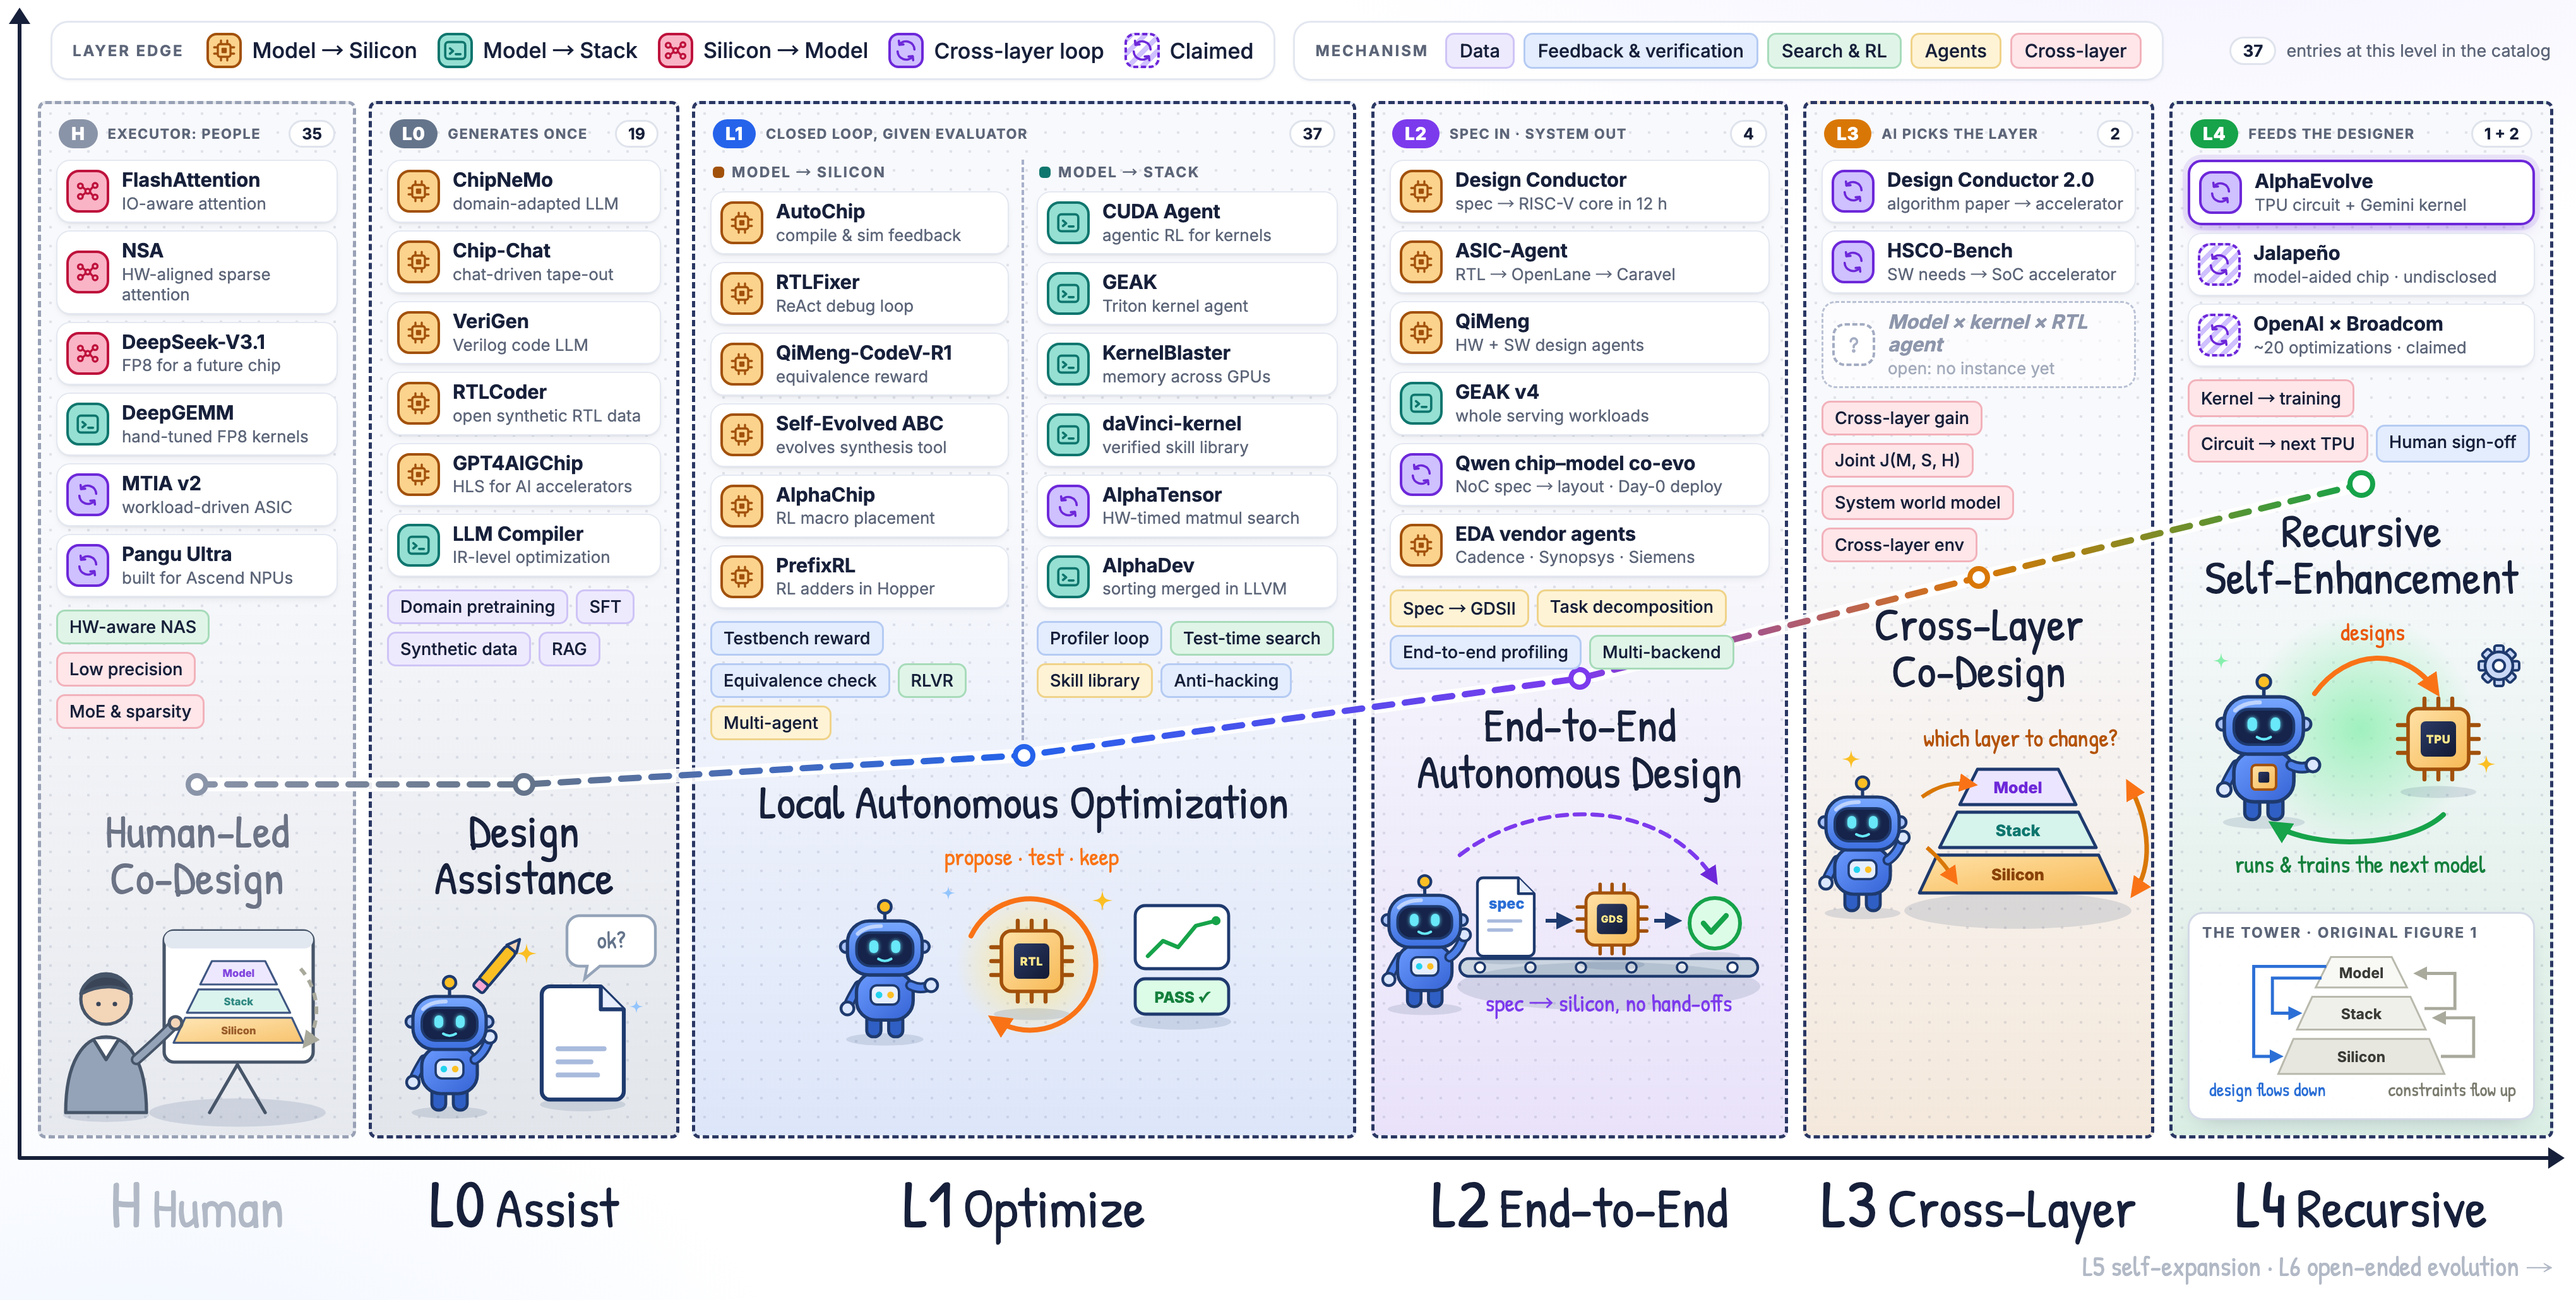
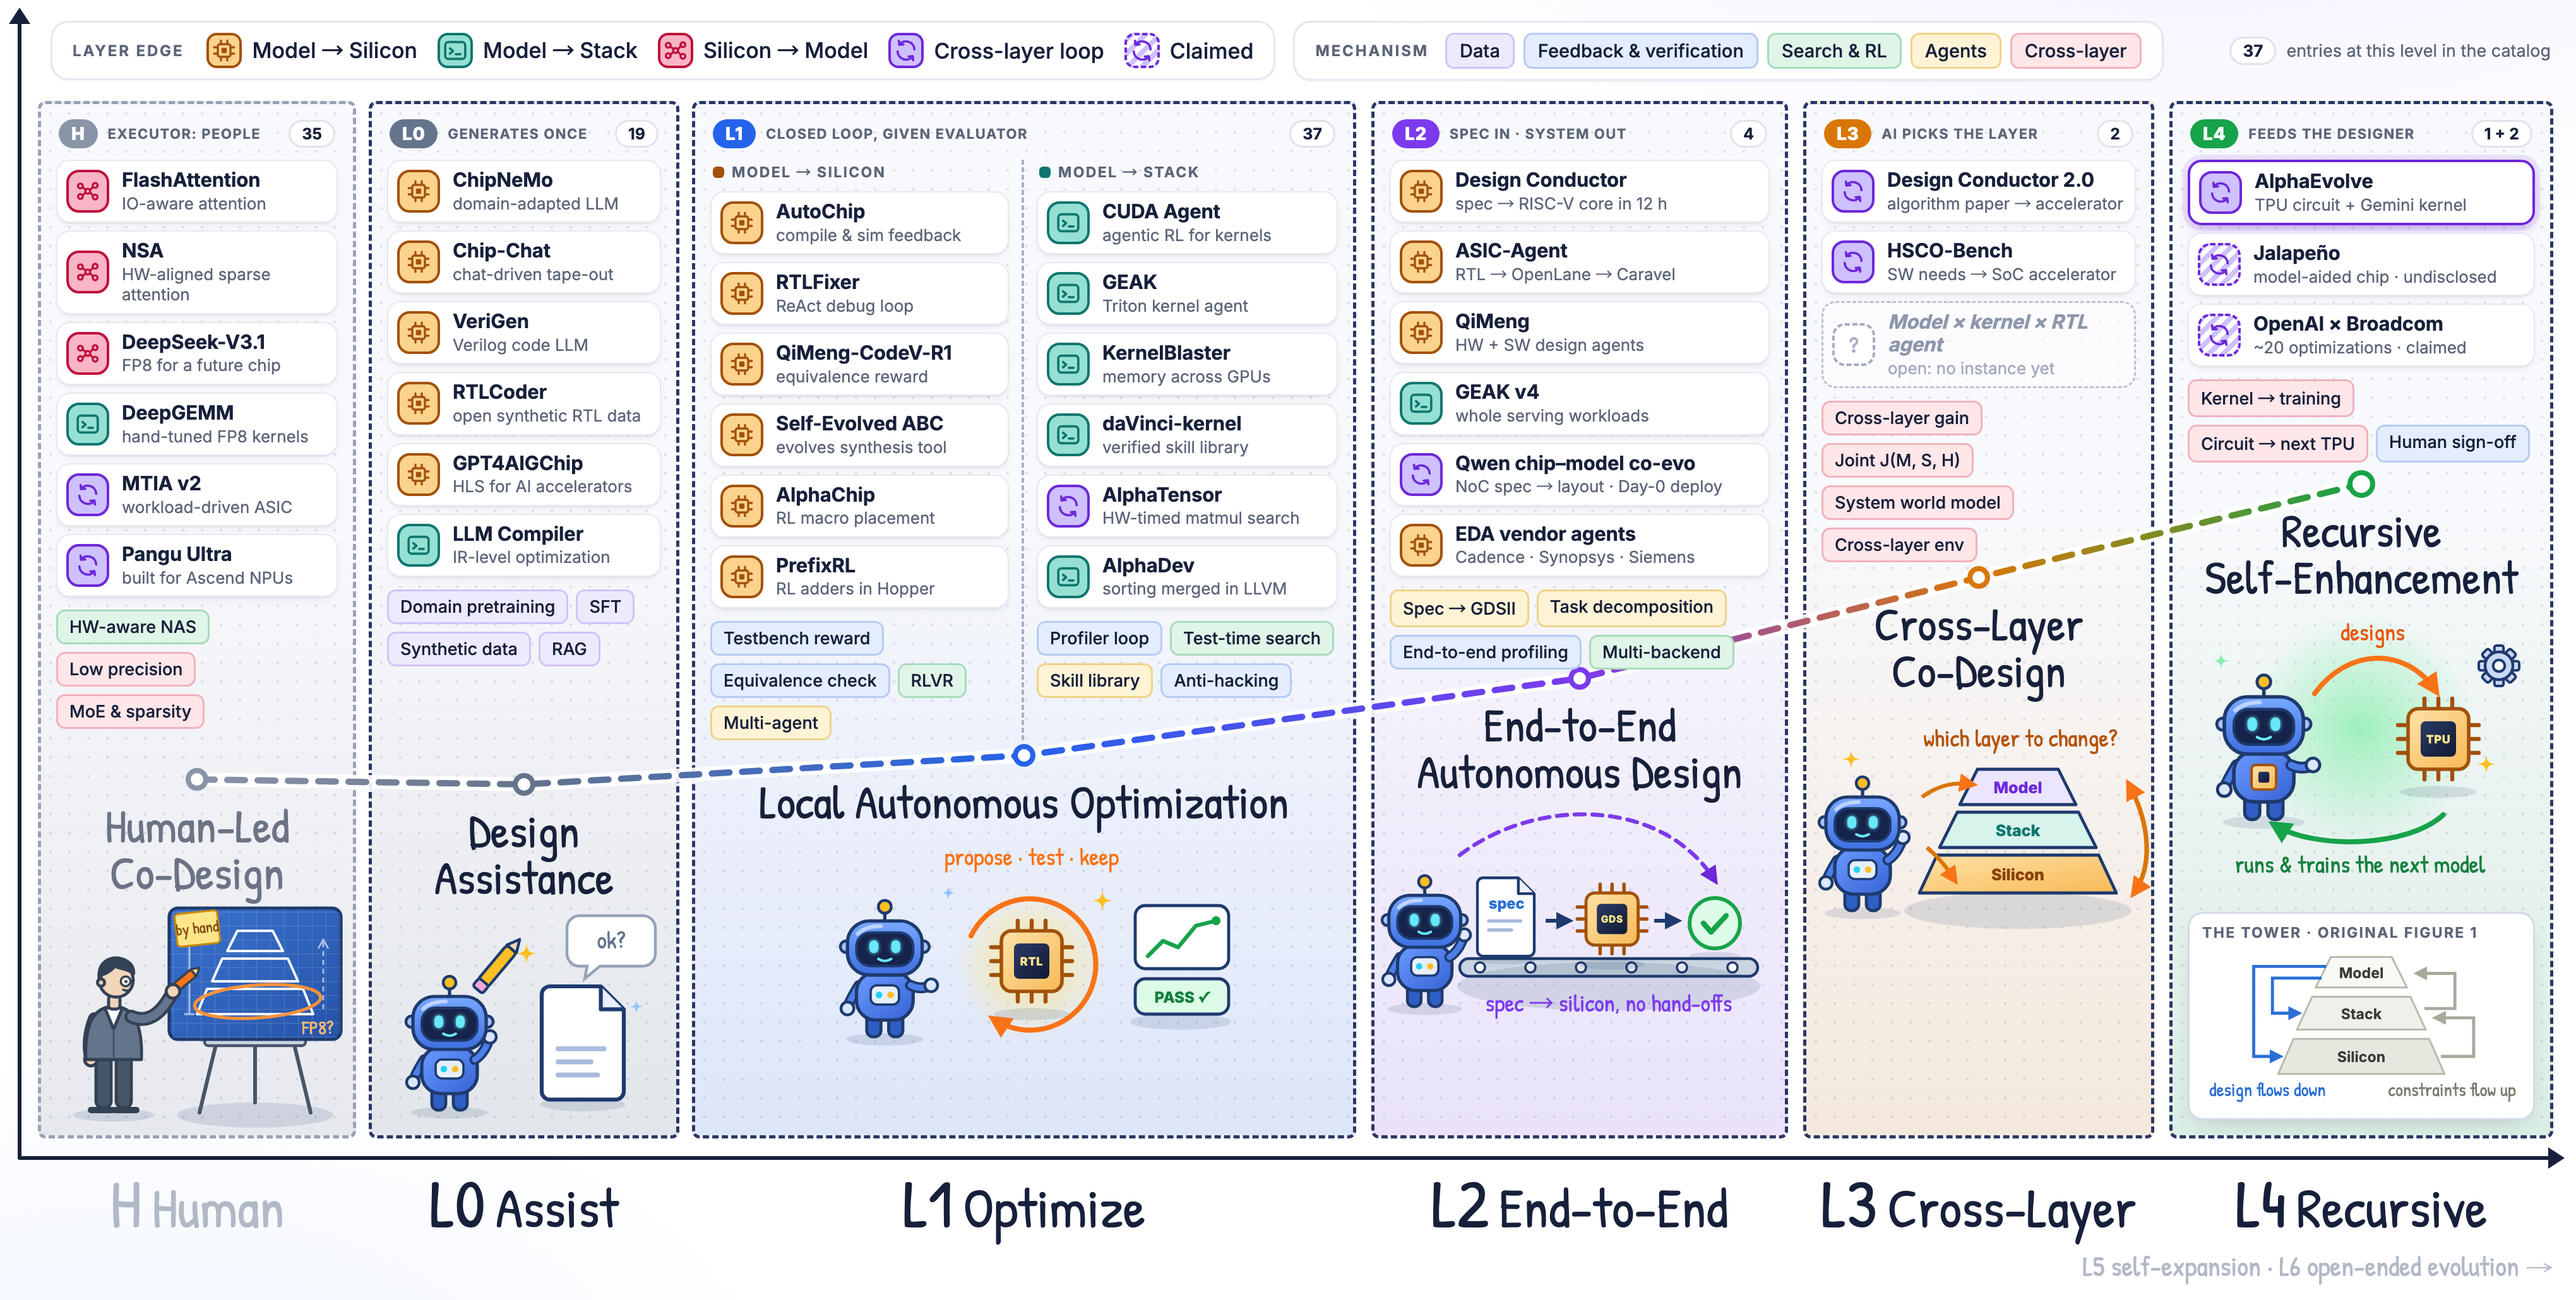
Redraw the human-led scene in Figure 1
An engineer marks up a blueprint of the tower on an easel, with a
hand-drawn FP8? annotation on the silicon layer.

Changed region(s): [[0.0, 0.5903, 0.1556, 0.8699]]

diff --git a/scripts/figures/overview.html b/scripts/figures/overview.html
@@ -298,25 +298,66 @@ function tower(x, y, s = 1) {
 }
 
 const SCENES = {
-  human: () => `<svg width="236" height="176" viewBox="0 0 236 176">
-    ${shadow(150, 166, 70)}
-    <g stroke="#475569" stroke-width="2.6" stroke-linejoin="round">
-      <path d="M150 128l-22 38M150 128l22 38" stroke-linecap="round"/>
-      <rect x="92" y="22" width="118" height="104" rx="8" fill="#fff"/>
-      <rect x="92" y="22" width="118" height="14" rx="7" fill="#e2e8f0" stroke="none"/>
+  human: () => `<svg width="236" height="180" viewBox="0 0 236 180">
+    <defs>
+      <pattern id="pGrid" width="11" height="11" patternUnits="userSpaceOnUse"><path d="M11 0H0V11" fill="none" stroke="#fff" stroke-opacity=".16" stroke-width="1"/></pattern>
+      <linearGradient id="gPrint" x1="0" y1="0" x2="1" y2="1"><stop offset="0" stop-color="#3a72cf"/><stop offset="1" stop-color="#2554a8"/></linearGradient>
+    </defs>
+    ${shadow(164, 172, 62)}
+    <!-- easel -->
+    <g stroke="#475569" stroke-width="3" stroke-linecap="round">
+      <path d="M134 112 L120 170M194 112 L208 170M164 112 L164 162"/>
     </g>
-    <g transform="translate(110,46) scale(.66)" opacity=".85">${tower(0, 0, 1)}</g>
-    <path d="M200 52 C 216 70, 216 96, 204 112" fill="none" stroke="#a9a99c" stroke-width="3" stroke-dasharray="6 5" marker-end="url(#ah-s)"/>
-    ${shadow(46, 168, 34)}
-    <g stroke="#475569" stroke-width="2.6" stroke-linejoin="round">
-      <path d="M14 166c0-40 14-60 32-60s32 20 32 60z" fill="#94a3b8"/>
-      <path d="M36 108l10 16 10-16" fill="#fff"/>
-      <circle cx="46" cy="76" r="20" fill="#f3d5b8"/>
-      <path d="M26 72c3-18 36-20 40 0c-8-7-25-8-40 0z" fill="#3b4558"/>
-      <circle cx="40" cy="80" r="1.8" fill="#3b4558" stroke="none"/><circle cx="53" cy="80" r="1.8" fill="#3b4558" stroke="none"/>
-      <path d="M70 124 Q 86 110 100 96" fill="none" stroke-width="9" stroke-linecap="round"/>
-      <path d="M70 124 Q 86 110 100 96" fill="none" stroke="#94a3b8" stroke-width="5" stroke-linecap="round"/>
-      <circle cx="101" cy="95" r="5" fill="#f3d5b8"/>
+    <rect x="124" y="110" width="80" height="7" rx="3" fill="#cbd5e1" stroke="#475569" stroke-width="2.2"/>
+    <!-- blueprint -->
+    <rect x="96" y="8" width="136" height="104" rx="7" fill="url(#gPrint)" stroke="#1e3a6e" stroke-width="2.6"/>
+    <rect x="96" y="8" width="136" height="104" rx="7" fill="url(#pGrid)"/>
+    <g fill="none" stroke="#fff" stroke-width="2" stroke-linejoin="round" opacity=".95">
+      <path d="M150 26h28l8 16h-44z"/>
+      <path d="M138 48h52l8 18h-68z"/>
+      <path d="M126 72h76l8 20h-92z"/>
+    </g>
+    <g fill="none" stroke="#fff" stroke-width="1.4" opacity=".6">
+      <path d="M112 26v66M108 26h8M108 92h8"/>
+      <path d="M218 88 V34" stroke-dasharray="4 3"/><path d="M214 40l4-7 4 7"/>
+    </g>
+    <ellipse cx="166" cy="82" rx="50" ry="13" fill="none" stroke="#fb923c" stroke-width="2.6" transform="rotate(-4 166 82)"/>
+    <text x="226" y="108" text-anchor="end" font-family="Patrick Hand" font-size="15" fill="#fdba74">FP8?</text>
+    <g transform="translate(100,13) rotate(-6)">
+      <rect width="34" height="26" rx="3" fill="#fde68a" stroke="#ca8a04" stroke-width="1.6"/>
+      <text x="17" y="17" text-anchor="middle" font-family="Patrick Hand" font-size="12.5" fill="#854d0e">by hand</text>
+    </g>
+    <!-- engineer -->
+    ${shadow(52, 172, 32)}
+    <g stroke="#334155" stroke-width="2.4" stroke-linejoin="round" stroke-linecap="round">
+      <rect x="38" y="122" width="12" height="44" rx="5" fill="#475569"/>
+      <rect x="54" y="122" width="12" height="44" rx="5" fill="#475569"/>
+      <path d="M34 168h17M53 168h17" stroke-width="5"/>
+      <!-- back arm, relaxed -->
+      <path d="M37 96 Q 31 112 34 126" fill="none" stroke-width="11"/>
+      <path d="M37 96 Q 31 112 34 126" fill="none" stroke="#64748b" stroke-width="6.4"/>
+      <circle cx="34" cy="128" r="5" fill="#f3d5b8"/>
+      <!-- body -->
+      <path d="M30 128 C 29 100 36 86 52 86 C 68 86 75 100 74 128 Z" fill="#64748b"/>
+      <path d="M45 87 L52 104 L59 87 Z" fill="#f8fafc"/>
+      <path d="M52 104 L52 126" stroke="#475569" stroke-width="1.6"/>
+      <rect x="48" y="77" width="9" height="11" rx="3" fill="#f3d5b8"/>
+      <!-- head -->
+      <circle cx="54" cy="65" r="13.5" fill="#f3d5b8"/>
+      <path d="M40.5 64 C 39 50 50 46 58 48 C 64 49.5 68.5 54 67.8 60 C 63 55.5 57 56.5 53 54 C 51 57 46 60 42.5 61 C 42 62.5 41.5 63.5 40.5 64 Z" fill="#334155"/>
+      <circle cx="42" cy="67" r="2.8" fill="#f3d5b8"/>
+      <circle cx="61.5" cy="66" r="3.9" fill="#fff" fill-opacity=".5" stroke-width="1.7"/>
+      <path d="M65.4 65.6 L68 65.2" stroke-width="1.5"/>
+      <circle cx="61.8" cy="66.2" r="1.2" fill="#334155" stroke="none"/>
+      <path d="M59.5 72.6 q 3.2 1.8 6 -0.4" fill="none" stroke-width="1.7"/>
+      <!-- front arm drawing on the board -->
+      <path d="M66 94 Q 84 102 98 76" fill="none" stroke-width="11"/>
+      <path d="M66 94 Q 84 102 98 76" fill="none" stroke="#64748b" stroke-width="6.4"/>
+      <g transform="translate(100,72) rotate(-40)">
+        <rect x="-2" y="-3.5" width="22" height="7" rx="2" fill="#f97316" stroke-width="1.8"/>
+        <path d="M20 -3.5 l6 3.5 -6 3.5z" fill="#fde68a" stroke-width="1.6"/>
+      </g>
+      <circle cx="99" cy="74" r="5.4" fill="#f3d5b8"/>
     </g>
   </svg>`,
   assist: () => `<svg width="232" height="176" viewBox="0 0 232 176">
